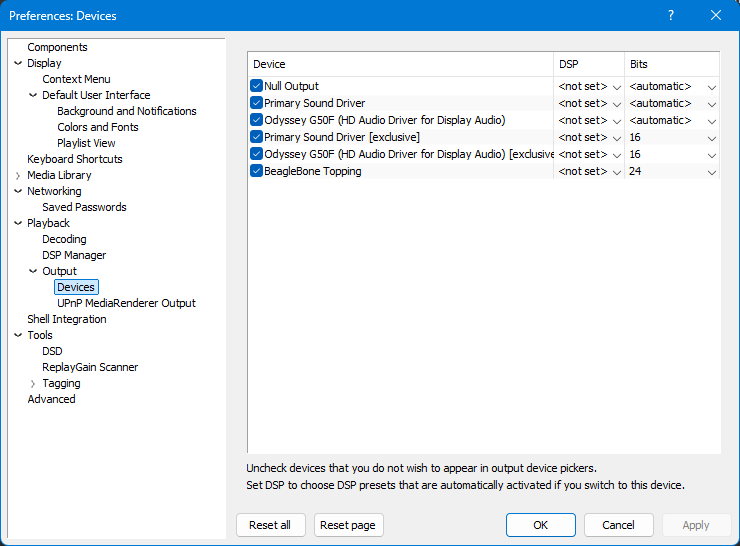
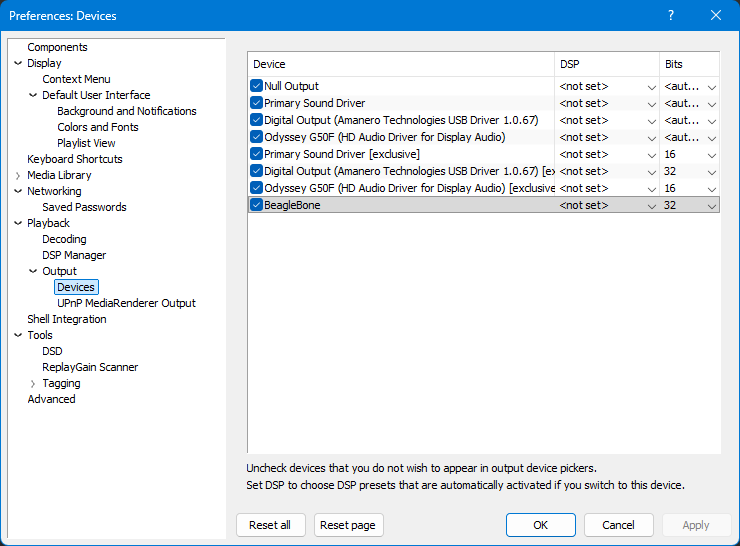
Rename the renderer to BeagleBone, and show it being discovered
The friendly name is what a control point puts in front of the user, so
it should say what the box is. Applied on the board as well as here -
the name is baked into the unit's ExecStart, so a redeploy is what
propagates it.

Network & End-Point Visibility now follows the deployment: once the
daemon is up, the first thing worth confirming is that the LAN can see
it. Screenshot of the discovered renderer added to the summary table.

Changed region(s): [[0.3108, 0.0934, 0.9946, 0.4048], [0.9946, 0.0, 1.0, 0.0311]]

diff --git a/valera_deploy.py b/valera_deploy.py
@@ -28,7 +28,7 @@ import time
 UNIT_PATH = "/etc/systemd/system/gmediarender.service"
 LEGACY_UNIT = "/lib/systemd/system/gmediarender.service"
 LEGACY_DROPIN = "/etc/systemd/system/gmediarender.service.d"
-FRIENDLY_NAME = "BeagleBone SD"
+FRIENDLY_NAME = "BeagleBone"
 
 
 def run(args, **kw):

diff --git a/README.md b/README.md
@@ -6,13 +6,13 @@ An uncompromising audiophile streamer based on BeagleBone Green.
 The architecture entirely eliminates proprietary shells, redundant software conversions, and marketing crutches (such as
 esoteric cables or uncontrolled sample-rate conversions).
 
-|                 1. Embedded Board                 |                       2. Media App                        |                          3. Endpoint                          |
-|:-------------------------------------------------:|:---------------------------------------------------------:|:-------------------------------------------------------------:|
-| ![BeagleBone-Green.png](img/BeagleBone-Green.png) | ![valera-in-foobar2000.png](img/valera-in-foobar2000.png) | ![valera-in-topping-mx3s.png](img/valera-in-topping-mx3s.png) |
+|                  Embedded Board                   |                  UPnP Renderer                  |                         Media App                         |
+|:-------------------------------------------------:|:-----------------------------------------------:|:---------------------------------------------------------:|
+| ![BeagleBone-Green.png](img/BeagleBone-Green.png) | ![BeagleBone-UPnP.png](img/BeagleBone-UPnP.png) | ![valera-in-foobar2000.png](img/valera-in-foobar2000.png) |
 
-|          Valera-MIPS          |                  htop                   |          an absolute bit-perfect, bare-metal pass-through!          |
-|:-----------------------------:|:---------------------------------------:|:-------------------------------------------------------------------:|
-| ![mascot.png](img/mascot.png) | ![valera-htop.png](img/valera-htop.png) | ![photo_2026-06-24_23-09-03.jpg](img/photo_2026-06-24_23-09-03.jpg) |
+|                           Endpoint                            |                  htop                   |          An absolute bit-perfect, bare-metal pass-through!          |
+|:-------------------------------------------------------------:|:---------------------------------------:|:-------------------------------------------------------------------:|
+| ![valera-in-topping-mx3s.png](img/valera-in-topping-mx3s.png) | ![valera-htop.png](img/valera-htop.png) | ![photo_2026-06-24_23-09-03.jpg](img/photo_2026-06-24_23-09-03.jpg) |
 
 ## Bypassing the Mixer: The Actual Signal Path
 
@@ -137,6 +137,95 @@ sudo ./valera_deploy.py
 
 When the log outputs the final **🎉 GOAL!!!**, the service is locked, loaded, armed in autostart (as a canonical
 unit in `/lib/systemd/system`, with any legacy drop-in purged), and waiting for your media stream.
+
+## Network & End-Point Visibility
+
+Ensure the UPnP/DLNA endpoint advertises itself properly across the local network segment.
+
+* **Check active network sockets and port binding:**
+
+```bash
+sudo ss -tulpn | grep gmediarender
+
+```
+
+    udp UNCONN 0 0 *:1900              users:(("gmediarender",pid=1199,fd=76))
+    tcp LISTEN 0 128 192.168.0.105:49494 users:(("gmediarender",pid=1199,fd=72))
+
+No port is pinned in `ExecStart`, so libupnp picks one out of `[49152..65535]` at start and it can differ
+after a restart. `1900/udp` is SSDP and is fixed. Read the TCP port out of this listing rather than
+assuming a number.
+
+* **Verify the renderer is still at volume 100 - the actual bit-perfect invariant:**
+
+The daemon starts at 0 dB by itself, but a control point can move the slider at any time, and the moment
+it does, `playbin`'s volume element leaves passthrough and starts scaling samples in software. No launch
+flag can prevent that; the only honest check is to ask the running renderer. Substitute the port from the
+listing above:
+
+```bash
+curl -s -X POST http://192.168.0.105:49494/upnp/control/rendercontrol1 -H 'Content-Type: text/xml; charset="utf-8"' -H 'SOAPACTION: "urn:schemas-upnp-org:service:RenderingControl:1#GetVolume"' -d '<?xml version="1.0"?><s:Envelope xmlns:s="http://schemas.xmlsoap.org/soap/envelope/" s:encodingStyle="http://schemas.xmlsoap.org/soap/encoding/"><s:Body><u:GetVolume xmlns:u="urn:schemas-upnp-org:service:RenderingControl:1"><InstanceID>0</InstanceID><Channel>Master</Channel></u:GetVolume></s:Body></s:Envelope>'
+
+```
+
+    <CurrentVolume>100</CurrentVolume>
+
+Anything below 100 means the stream is being attenuated on this board. The control URL comes from
+`gmediarender --dump-devicedesc`.
+
+> **There is no `--initial-volume` flag in this build.** The volume option this version of
+> gmrender-resurrect actually offers is `--gstout-initial-volume-db` (`0.0` = max, `-6` = half), listed
+> under `gmediarender --help-gstout`. Since 0 dB is already the default, adding it changes nothing - and
+> adding the non-existent spelling would stop the daemon from starting at all, because glib's option
+> parser rejects unknown options outright. Check `--help-all` before putting any flag in the unit.
+
+### The volume slider is the one hole in the bit-perfect claim
+
+Worth stating plainly, because it is a mouse wheel away and nothing in the chain warns about it.
+foobar2000's volume control is wired straight to this renderer: `foo_out_upnp.dll` carries
+`UPnP Volume Control`, `SetVolume`, `SetMute`, `VolumeMin`/`VolumeMax` and subscribes to
+`urn:schemas-upnp-org:service:RenderingControl:*`. Moving that slider sends SOAP to the board,
+gmediarender puts the value on `playbin`'s `volume` property, and every sample gets multiplied in
+floating point. Everything else documented here - `hw:1,0`, no dmix, WAV over FLAC, matching altset -
+is undone by that one control.
+
+**It cannot be switched off from either side.**
+
+* On the board: `gmediarender --help-all` lists every option this build has. RenderingControl is
+  compiled in and there is no flag to suppress it.
+* In foobar2000: the complete set of keys `foo_out_upnp.dll` recognises is `stream-title`,
+  `preferred-format`, `forced-format`, `bitdepth-max`, `supports-FLAC`, `supports-WAV`,
+  `supports-LPCM`, `supports-pause`, `supports-chunked`, `supports-infinite-length`,
+  `zero-length-WAV`, `send-accept-ranges`, `accept-ranges`, `reports-time`. There is no volume key
+  in any spelling.
+
+So it is a discipline, not a setting: **leave the renderer at 100 and change loudness on the MX3s
+itself**, where the control is analog and downstream of the DAC. The state lives only in the running
+daemon's memory, so `systemctl restart gmediarender` unconditionally returns it to 100.
+
+The MX3s does also expose a digital volume of its own over USB Audio Class, separate from UPnP and
+untouched by foobar2000:
+
+```bash
+amixer -c 1 sget PCM
+
+```
+
+    Simple mixer control 'PCM',0
+      Capabilities: pvolume pswitch pswitch-joined
+      Limits: Playback 0 - 15
+      Front Left: Playback 15 [100%] [0.00dB] [on]
+
+Confirm it reads `[0.00dB]` - that is the Savitech bridge not attenuating. It is worth checking once
+and then leaving alone: sixteen steps across the whole range is a mute switch with pretensions, not a
+volume control.
+
+* **Ping the board locally to verify zero-latency connection:**
+
+```bash
+ping -c 4 beaglebone.local
+
+```
 
 ## Low-Level Hardware & ALSA Diagnostics
 
@@ -331,16 +420,16 @@ altset 3 is **native DSD**, which this DAC has in hardware.
 
 Against the MX3s, from `lsusb -v`:
 
-| | Topping MX3s | SMSL RAW-HA1 |
-|:--|:--|:--|
-| bridge | Savitech `262a:196f` | Thesycon/XMOS `152a:85dd` |
-| formats ALSA sees | `S16_LE`, `S24_3LE` | `S32_LE` only |
-| `bSubslotSize` | 2 or 3 bytes | **4 bytes in every altsetting** |
-| bits carried | 16 / 24 | 24 or 32 in a 32-bit slot |
-| top rate | 192 kHz | **768 kHz** |
-| DSD | none | **native, `DSD_U32_BE`** |
-| `wMaxPacketSize` | 104 / 156 bytes | **776 bytes** |
-| volume control on the host | `PCM Playback Volume`, 16 steps | none at all |
+|                            | Topping MX3s                    | SMSL RAW-HA1                    |
+|:---------------------------|:--------------------------------|:--------------------------------|
+| bridge                     | Savitech `262a:196f`            | Thesycon/XMOS `152a:85dd`       |
+| formats ALSA sees          | `S16_LE`, `S24_3LE`             | `S32_LE` only                   |
+| `bSubslotSize`             | 2 or 3 bytes                    | **4 bytes in every altsetting** |
+| bits carried               | 16 / 24                         | 24 or 32 in a 32-bit slot       |
+| top rate                   | 192 kHz                         | **768 kHz**                     |
+| DSD                        | none                            | **native, `DSD_U32_BE`**        |
+| `wMaxPacketSize`           | 104 / 156 bytes                 | **776 bytes**                   |
+| volume control on the host | `PCM Playback Volume`, 16 steps | none at all                     |
 
 The last row matters in practice. The MX3s exposes a mixer element, and a fresh
 `alsa-utils` install found it at **8 of 15, which is -21 dB** - quiet enough to
@@ -488,7 +577,7 @@ sudo systemctl status gmediarender
        Active: active (running) since Thu 2026-06-25 22:45:59 UTC; 4h 27min ago
      Main PID: 1216 (gmediarender)
        CGroup: /system.slice/gmediarender.service
-               └─1216 /usr/bin/gmediarender -f BeagleBone Topping -o gst --gstout-audiosink=alsasink
+               └─1216 /usr/bin/gmediarender -f BeagleBone -o gst --gstout-audiosink=alsasink
     
     Jun 25 22:45:59 beaglebone systemd[1]: Started GMediaRender UPnP Renderer.
     Jun 25 22:46:00 beaglebone gmediarender[1216]: gmediarender 0.0.7-git started [ gmediarender 0.0.7-git (libupnp-1.6.19+git20160116; glib-2.49.6; gstreamer-1.8.3) ].
@@ -548,12 +637,12 @@ out - which also means it can be run on a system nobody is sitting at.
 
 Read the output like this:
 
-| what you see | what it means |
-|:--|:--|
-| ratio `1.0000`, device asking its nominal rate | the chain works |
-| ratio near 1, device **`PEGGED`** at some other value | the feedback loop is not closing - the host sends at its own rate and ignores the request |
-| ratio well below 1, and the same fraction at every rate | a driver defect. Saturation produces scatter and xruns, not a clean 5/6 |
-| `XRUN` in the verdict | the pipeline missed its deadline - that one is above ALSA |
+| what you see                                            | what it means                                                                             |
+|:--------------------------------------------------------|:------------------------------------------------------------------------------------------|
+| ratio `1.0000`, device asking its nominal rate          | the chain works                                                                           |
+| ratio near 1, device **`PEGGED`** at some other value   | the feedback loop is not closing - the host sends at its own rate and ignores the request |
+| ratio well below 1, and the same fraction at every rate | a driver defect. Saturation produces scatter and xruns, not a clean 5/6                   |
+| `XRUN` in the verdict                                   | the pipeline missed its deadline - that one is above ALSA                                 |
 
 This is the tool that ended a two-day search in forty five seconds, after the
 ear-and-stopwatch method had produced four confident and wrong answers. Prefer
@@ -608,11 +697,11 @@ that never closed.
 **The fix is `5.10.240-bone80`,** the last long-term kernel before the USB-audio
 endpoint rework that landed in 5.11:
 
-| | 4.9.78-ti-r94 | **5.10.240-bone80** | 6.18.39-bone44 |
-|:--|--:|--:|--:|
-| DAC asks | 44320 Hz | **44100 Hz** | 44100 Hz |
-| host delivers | 43956 Hz (-0.33%) | **44100 Hz (0.00%)** | 36807 Hz (-16.6%) |
-| by ear | burbles, in bursts | **clean** | constant distortion |
+|               |      4.9.78-ti-r94 |  **5.10.240-bone80** |      6.18.39-bone44 |
+|:--------------|-------------------:|---------------------:|--------------------:|
+| DAC asks      |           44320 Hz |         **44100 Hz** |            44100 Hz |
+| host delivers |  43956 Hz (-0.33%) | **44100 Hz (0.00%)** |   36807 Hz (-16.6%) |
+| by ear        | burbles, in bursts |            **clean** | constant distortion |
 
 > **Do not use a current kernel.** `6.18` delivers exactly five sixths of the
 > stream at every rate, on two different DACs, with an idle CPU, no xruns and
@@ -697,92 +786,3 @@ unchanged system, and every withdrawn conclusion above came from that method.
 And the instrument has to be checked before the system: `valera_click_hunt.py`
 was at one point producing about 35 clicks a minute by itself. It is kept in the
 repository with a notice saying so; `valera_rate_check.py` replaces it.
-
-### Network & End-Point Visibility
-
-Ensure the UPnP/DLNA endpoint advertises itself properly across the local network segment.
-
-* **Check active network sockets and port binding:**
-
-```bash
-sudo ss -tulpn | grep gmediarender
-
-```
-
-    udp UNCONN 0 0 *:1900              users:(("gmediarender",pid=1199,fd=76))
-    tcp LISTEN 0 128 192.168.0.105:49494 users:(("gmediarender",pid=1199,fd=72))
-
-No port is pinned in `ExecStart`, so libupnp picks one out of `[49152..65535]` at start and it can differ
-after a restart. `1900/udp` is SSDP and is fixed. Read the TCP port out of this listing rather than
-assuming a number.
-
-* **Verify the renderer is still at volume 100 - the actual bit-perfect invariant:**
-
-The daemon starts at 0 dB by itself, but a control point can move the slider at any time, and the moment
-it does, `playbin`'s volume element leaves passthrough and starts scaling samples in software. No launch
-flag can prevent that; the only honest check is to ask the running renderer. Substitute the port from the
-listing above:
-
-```bash
-curl -s -X POST http://192.168.0.105:49494/upnp/control/rendercontrol1 -H 'Content-Type: text/xml; charset="utf-8"' -H 'SOAPACTION: "urn:schemas-upnp-org:service:RenderingControl:1#GetVolume"' -d '<?xml version="1.0"?><s:Envelope xmlns:s="http://schemas.xmlsoap.org/soap/envelope/" s:encodingStyle="http://schemas.xmlsoap.org/soap/encoding/"><s:Body><u:GetVolume xmlns:u="urn:schemas-upnp-org:service:RenderingControl:1"><InstanceID>0</InstanceID><Channel>Master</Channel></u:GetVolume></s:Body></s:Envelope>'
-
-```
-
-    <CurrentVolume>100</CurrentVolume>
-
-Anything below 100 means the stream is being attenuated on this board. The control URL comes from
-`gmediarender --dump-devicedesc`.
-
-> **There is no `--initial-volume` flag in this build.** The volume option this version of
-> gmrender-resurrect actually offers is `--gstout-initial-volume-db` (`0.0` = max, `-6` = half), listed
-> under `gmediarender --help-gstout`. Since 0 dB is already the default, adding it changes nothing - and
-> adding the non-existent spelling would stop the daemon from starting at all, because glib's option
-> parser rejects unknown options outright. Check `--help-all` before putting any flag in the unit.
-
-#### The volume slider is the one hole in the bit-perfect claim
-
-Worth stating plainly, because it is a mouse wheel away and nothing in the chain warns about it.
-foobar2000's volume control is wired straight to this renderer: `foo_out_upnp.dll` carries
-`UPnP Volume Control`, `SetVolume`, `SetMute`, `VolumeMin`/`VolumeMax` and subscribes to
-`urn:schemas-upnp-org:service:RenderingControl:*`. Moving that slider sends SOAP to the board,
-gmediarender puts the value on `playbin`'s `volume` property, and every sample gets multiplied in
-floating point. Everything else documented here - `hw:1,0`, no dmix, WAV over FLAC, matching altset -
-is undone by that one control.
-
-**It cannot be switched off from either side.**
-
-* On the board: `gmediarender --help-all` lists every option this build has. RenderingControl is
-  compiled in and there is no flag to suppress it.
-* In foobar2000: the complete set of keys `foo_out_upnp.dll` recognises is `stream-title`,
-  `preferred-format`, `forced-format`, `bitdepth-max`, `supports-FLAC`, `supports-WAV`,
-  `supports-LPCM`, `supports-pause`, `supports-chunked`, `supports-infinite-length`,
-  `zero-length-WAV`, `send-accept-ranges`, `accept-ranges`, `reports-time`. There is no volume key
-  in any spelling.
-
-So it is a discipline, not a setting: **leave the renderer at 100 and change loudness on the MX3s
-itself**, where the control is analog and downstream of the DAC. The state lives only in the running
-daemon's memory, so `systemctl restart gmediarender` unconditionally returns it to 100.
-
-The MX3s does also expose a digital volume of its own over USB Audio Class, separate from UPnP and
-untouched by foobar2000:
-
-```bash
-amixer -c 1 sget PCM
-
-```
-
-    Simple mixer control 'PCM',0
-      Capabilities: pvolume pswitch pswitch-joined
-      Limits: Playback 0 - 15
-      Front Left: Playback 15 [100%] [0.00dB] [on]
-
-Confirm it reads `[0.00dB]` - that is the Savitech bridge not attenuating. It is worth checking once
-and then leaving alone: sixteen steps across the whole range is a mute switch with pretensions, not a
-volume control.
-
-* **Ping the board locally to verify zero-latency connection:**
-
-```bash
-ping -c 4 beaglebone.local
-
-```
